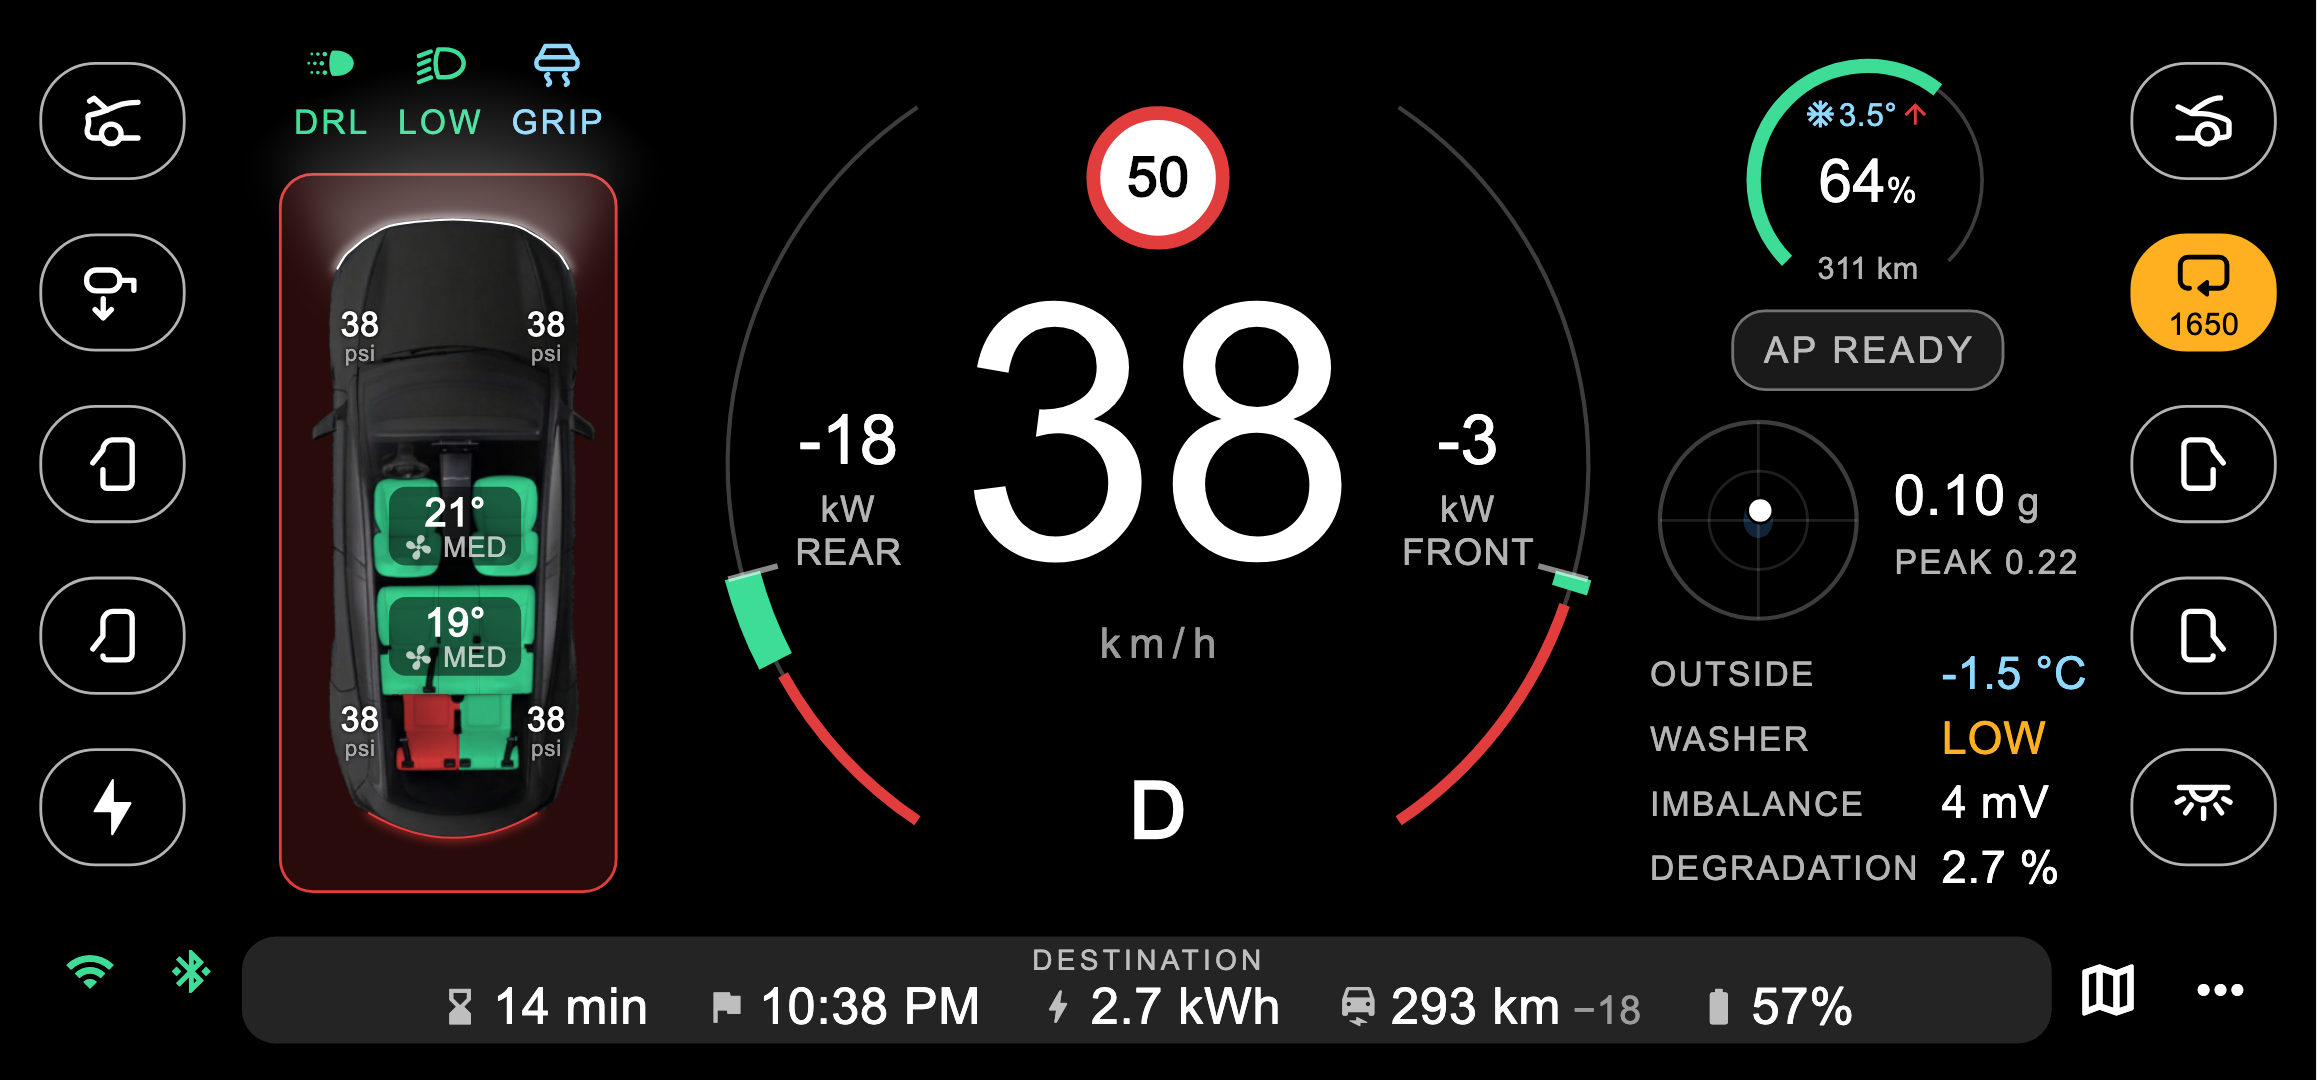
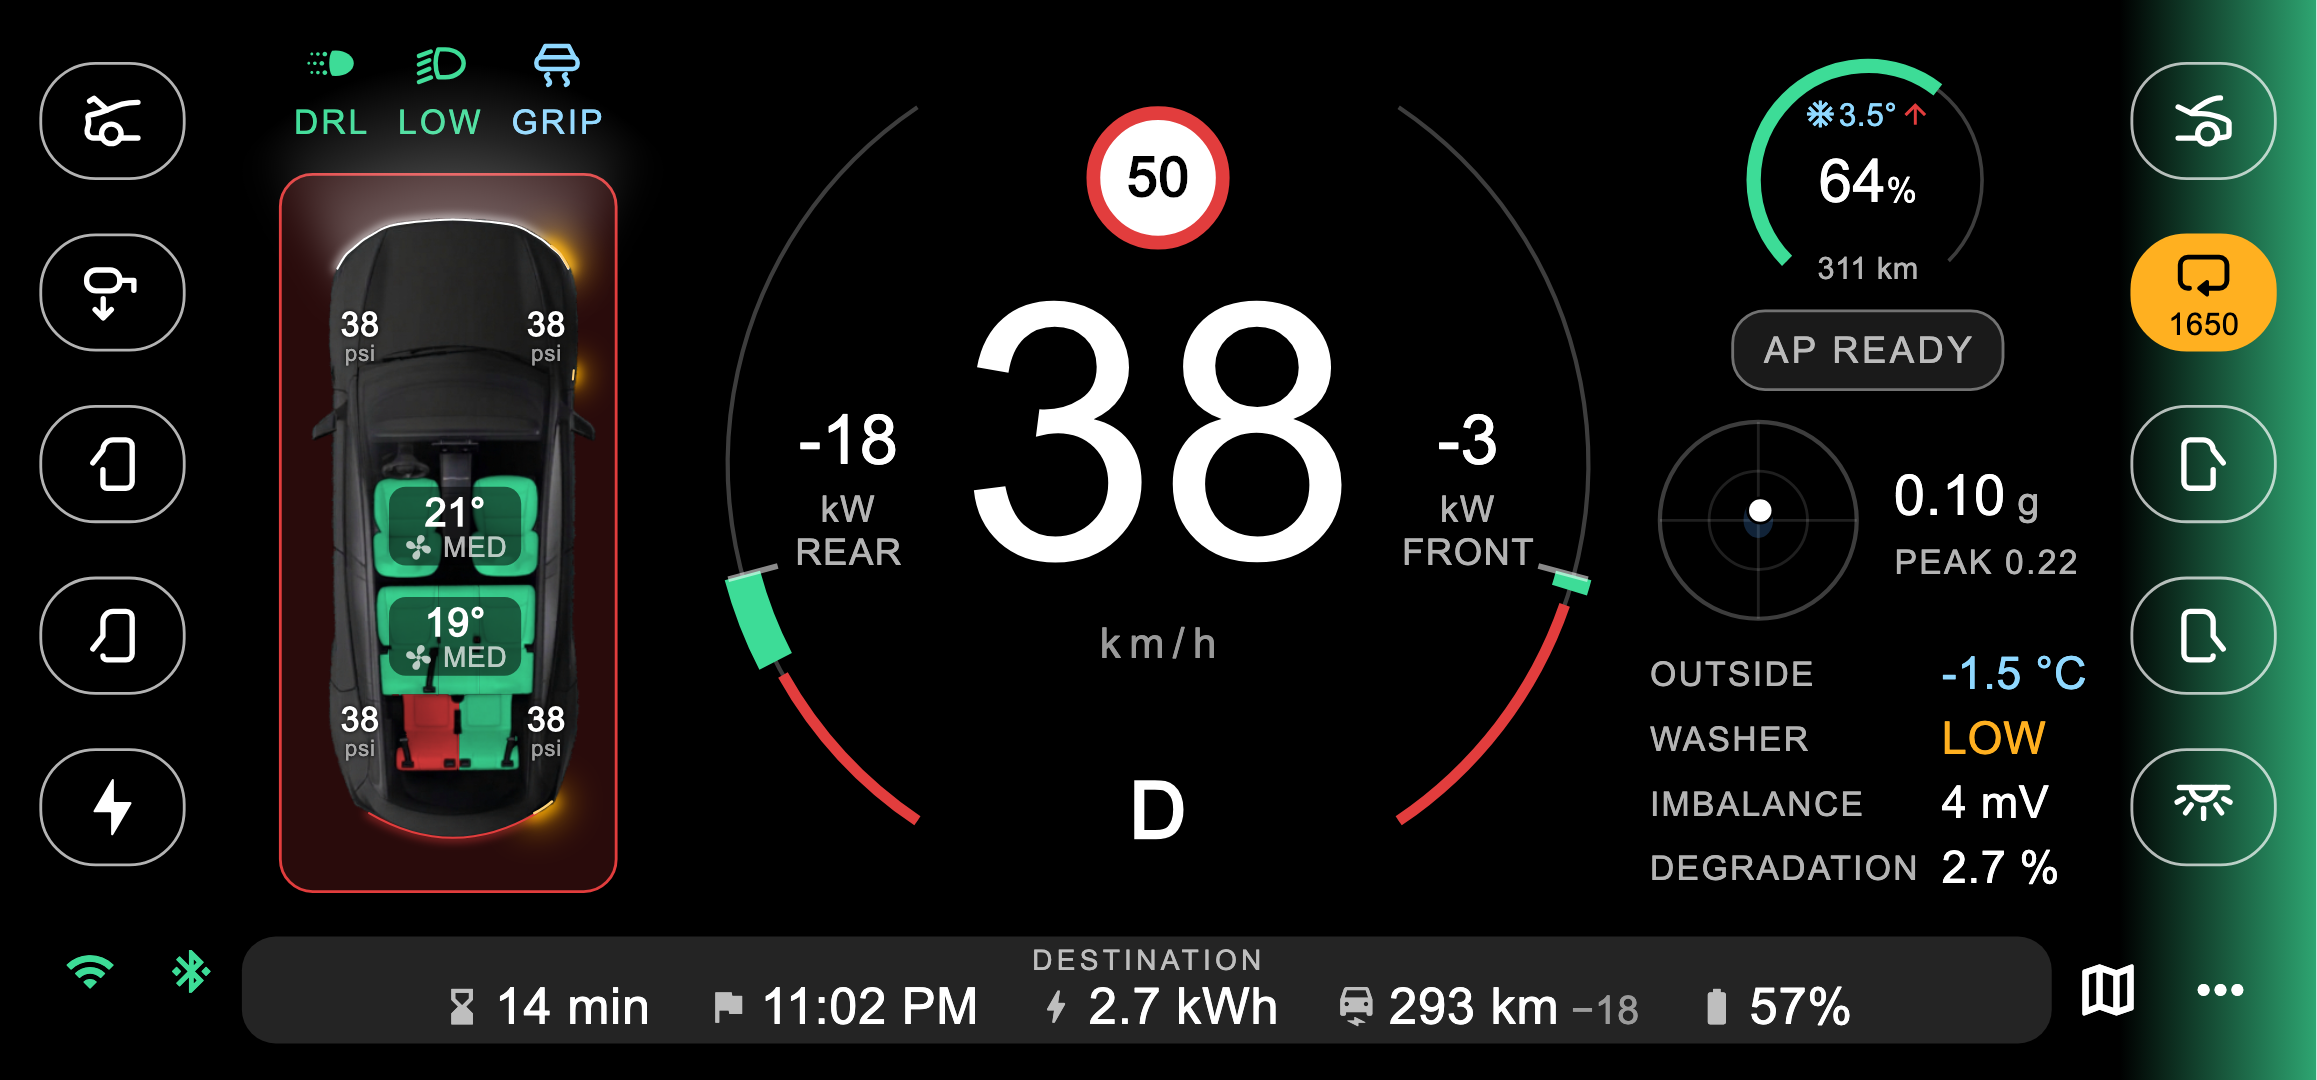
Main screenshot: signalling right

diff --git a/test/dash_shot_test.dart b/test/dash_shot_test.dart
@@ -40,7 +40,7 @@ Panda _seen(Panda o) => o
 
 final _shots = <String, (Size, Panda Function())>{
   // A dark November morning: ice on the bridge, a cold pack, a full car
-  // recirculating, a third-row seat unbuckled.
+  // recirculating, a third-row seat unbuckled, signalling right mid-flash.
   'cold-morning': (const Size(823.5, 384), () {
     final o = _car()
       ..speed = 38
@@ -52,6 +52,8 @@ final _shots = <String, (Size, Panda Function())>{
       ..rangeMi = 193
       ..speedLimit = 50
       ..autopilot = 'AP READY'
+      ..indR = true
+      ..blinkLit = true
       ..lowBeam = true
       ..outsideC = -1.5
       ..washerLow = true
